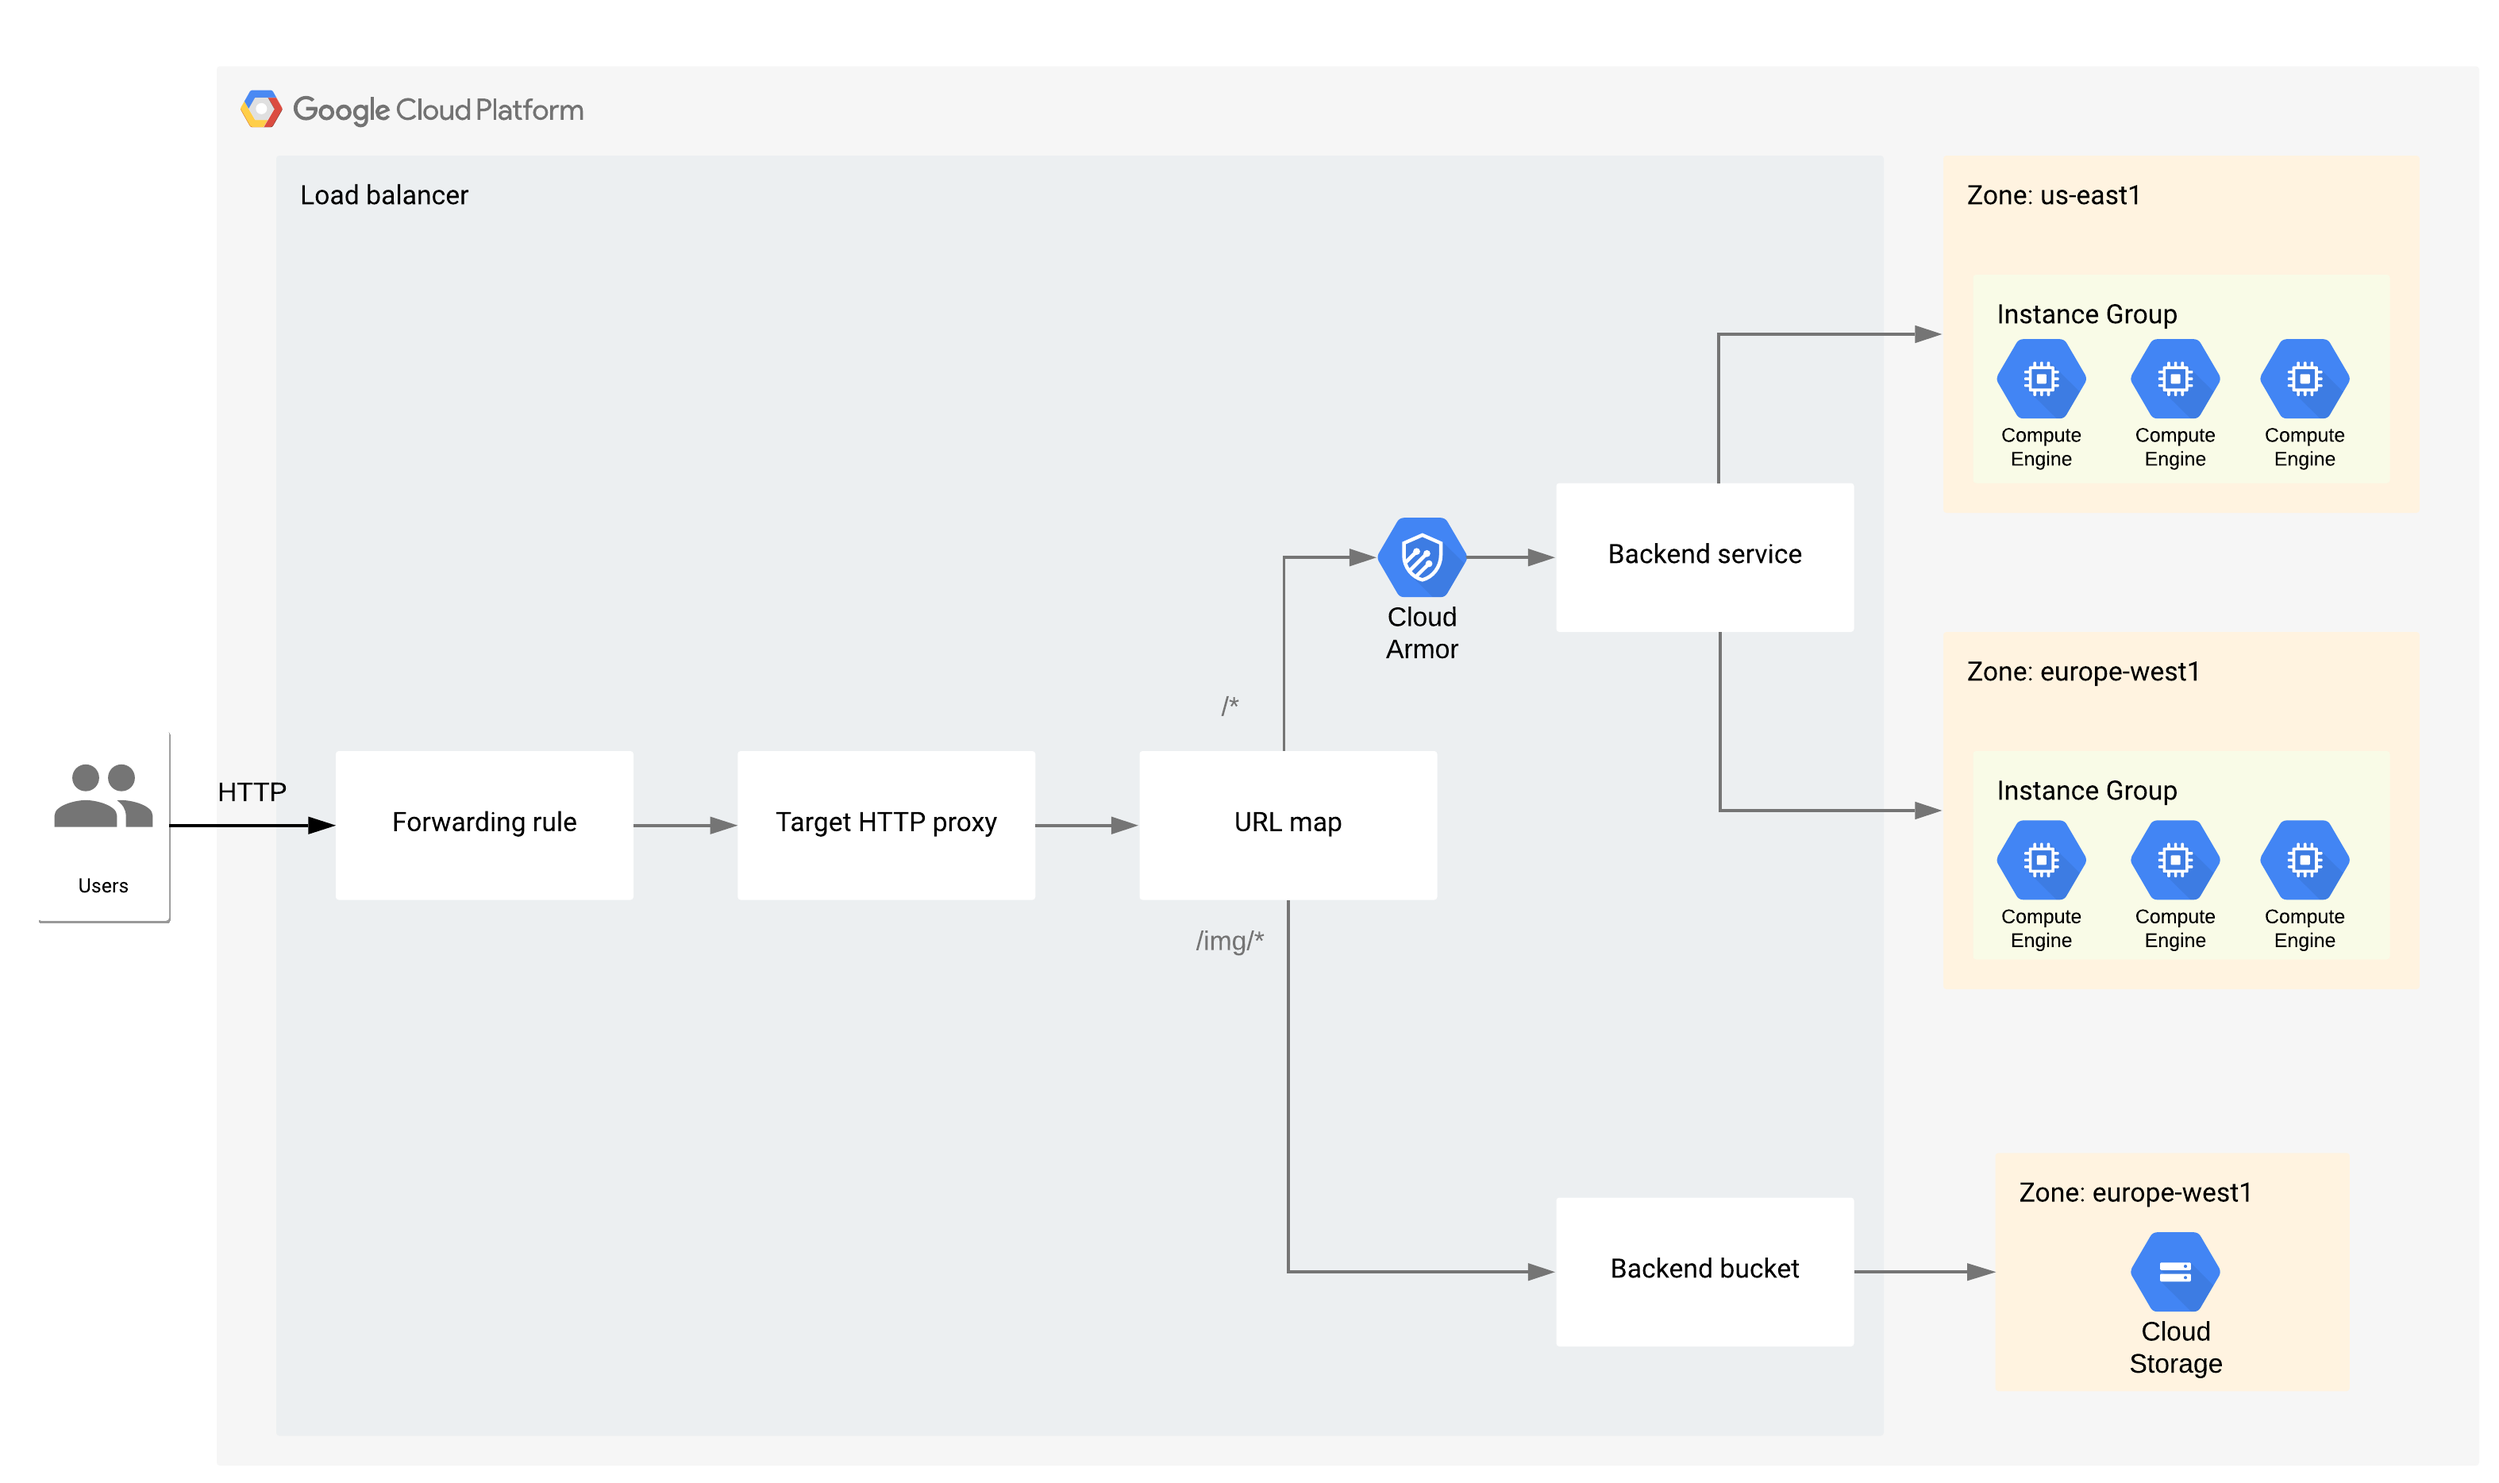
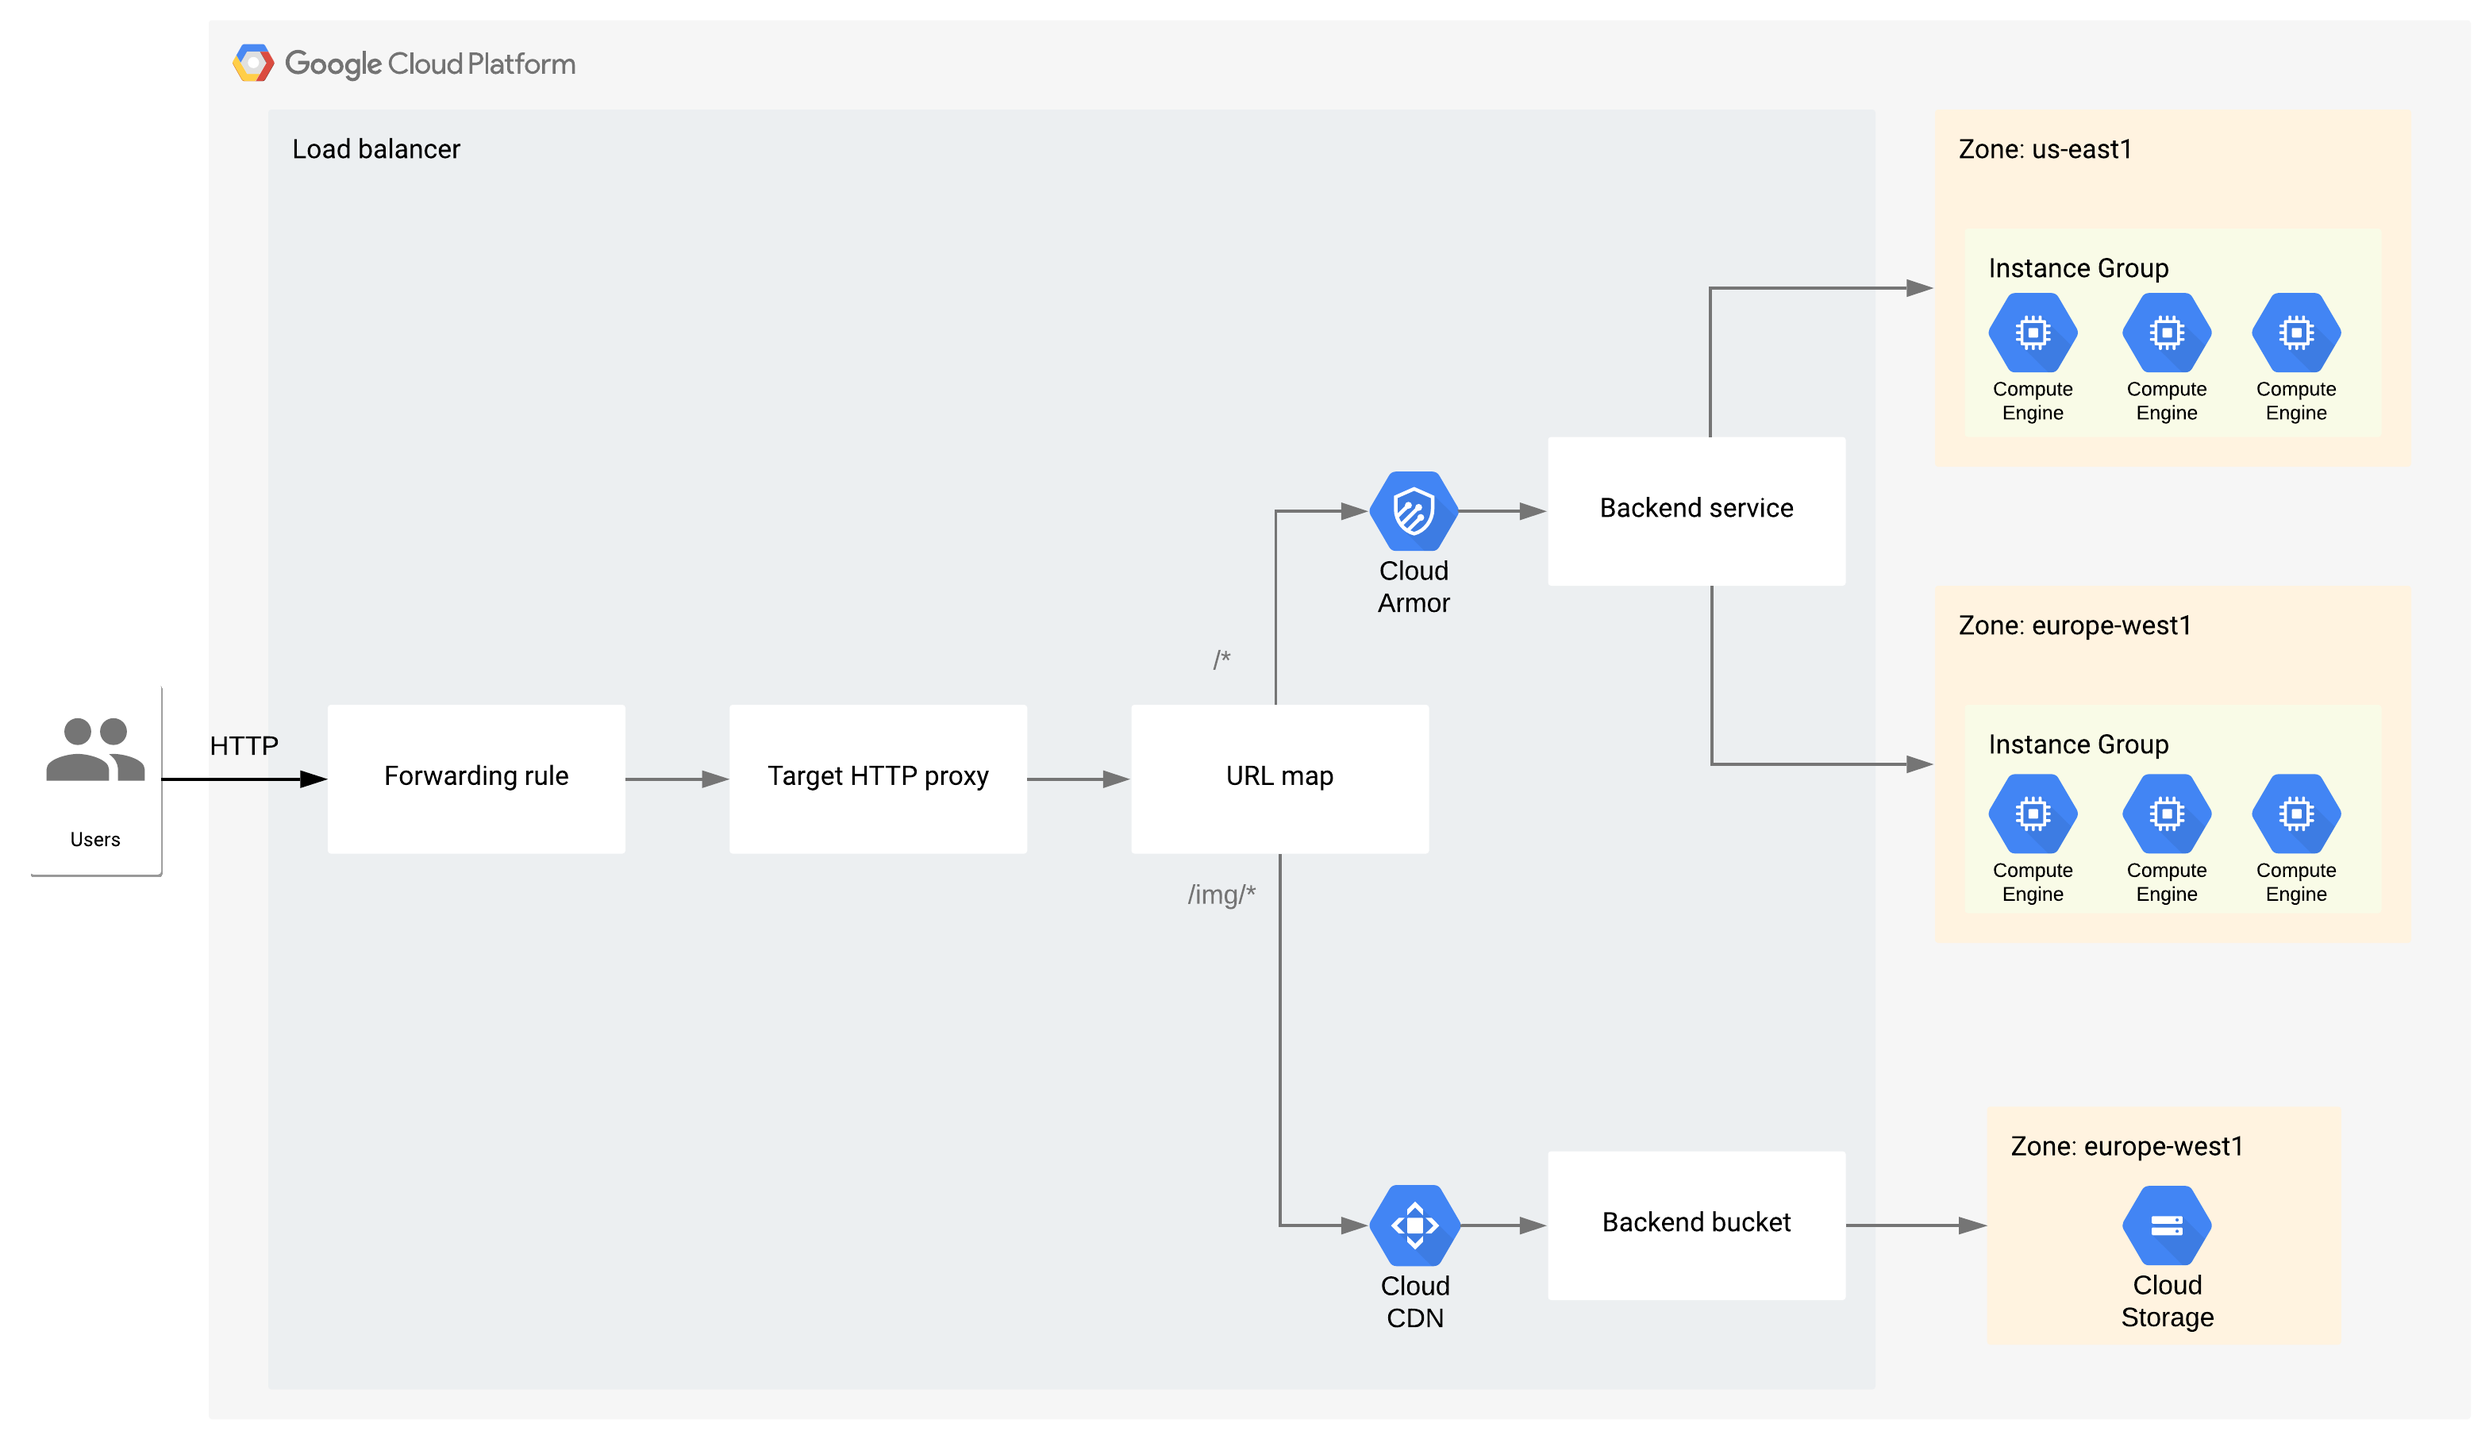
GCP-zadanie11

diff --git a/GCP/Architecture/Zadanie11/README.md b/GCP/Architecture/Zadanie11/README.md
@@ -348,7 +348,7 @@ Wywołanie polecania `siege -c 10 http://34.102.225.4` na powyższych VM i spraw
 ![screen](./img/20200304005214.jpg)
 </details>
 
-## 7. Dodanie Cloud Storage do Load Balancera
+## 7. [Dodanie Cloud Storage do Load Balancera](https://cloud.google.com/load-balancing/docs/https/adding-backend-buckets-to-load-balancers)
 ### 7.1 Utworzenie Cloud Storage
 ```bash
 bucketName="zad11cloudbucket"
@@ -370,7 +370,7 @@ gsutil iam ch allUsers:objectViewer gs://$bucketName
 ### 7.4 Utworzenie Backend Bucket
 ```bash
 backendBucketName="backend-bucket"
-gcloud compute backend-buckets create $backendBucketName --gcs-bucket-name=$bucketName
+gcloud compute backend-buckets create $backendBucketName --gcs-bucket-name=$bucketName --enable-cdn
 ```
 
 <details>
@@ -399,6 +399,9 @@ gcloud compute url-maps add-path-matcher $webServerMap \
 ![screen](./img/20200304221609.jpg)
 ![screen](./img/20200304221611.jpg)
 ![screen](./img/20200304221614.jpg)
+
+Sprawdzenie działania CDN
+![screen](./img/20200304231716.jpg)
 
 </details>
 
